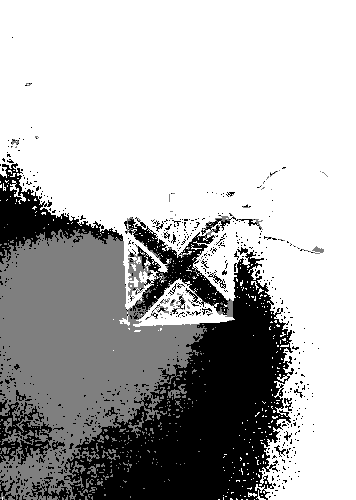
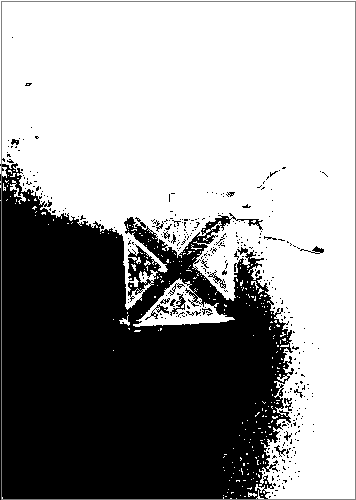
Add object pixel dimension finder.
Script now contains the method get_object_rectangle(), which returns the
coordinates and bounds of the upright rectangle bounding the largest
foreground segment (which algorithm assumes is the object -- this is
safer, in any case). The image outputs illustrate the calculated
rectangle.

diff --git a/cs473vision/ObjectDetector.py b/cs473vision/ObjectDetector.py
@@ -4,7 +4,9 @@ Created on Feb 28, 2014
 @author: Vance Zuo
 '''
 
+import numpy
 import cv2
+import os
 
 class ObjectDetector(object):
     '''
@@ -16,38 +18,71 @@ class ObjectDetector(object):
         '''
         self.bg_img = None
         self.fg_img = None
+        self.fg_mask = None
         return
         
     def load_image(self, bg_path, fg_path):
+        if not (os.path.isfile(bg_path) and os.path.isfile(fg_path)):
+            return False
         self.bg_img = cv2.imread(bg_path)
         self.fg_img = cv2.imread(fg_path)
         return True
         
-    def subtract_background(self):
-        # Take simple difference
-        self.naive_mask = cv2.absdiff(self.bg_img, self.fg_img)
-        self.naive_mask = cv2.cvtColor(self.naive_mask, cv2.COLOR_BGR2GRAY)
-        __, self.naive_mask = cv2.threshold(self.naive_mask, 0, 255, 
-                                           cv2.THRESH_BINARY + cv2.THRESH_OTSU)
-        
-        # MOG Subtraction
-        bg_subtractor = cv2.BackgroundSubtractorMOG()
-        __ = bg_subtractor.apply(self.bg_img)
-        self.MOG_mask = bg_subtractor.apply(self.fg_img)
-              
-        # MOG2 Subtraction
-        bg_subtractor = cv2.BackgroundSubtractorMOG2()
-        __ = bg_subtractor.apply(self.bg_img)
-        self.MOG2_mask = bg_subtractor.apply(self.fg_img)
-        return
+    def create_fg_mask(self, method="Simple"):
+        if (self.bg_img is None) or (self.fg_img is None):
+            return False
+        if method == "Simple":
+            self.fg_mask = cv2.absdiff(self.bg_img, self.fg_img)
+            self.fg_mask = cv2.cvtColor(self.fg_mask, cv2.COLOR_BGR2GRAY)
+            __, self.fg_mask = cv2.threshold(self.fg_mask, 0, 255,
+                                             cv2.THRESH_BINARY+cv2.THRESH_OTSU)
+        elif method == "MOG":
+            bg_subtractor = cv2.BackgroundSubtractorMOG()
+            bg_subtractor.apply(self.bg_img)
+            self.fg_mask = bg_subtractor.apply(self.fg_img)
+        elif method == "MOG2":
+            bg_subtractor = cv2.BackgroundSubtractorMOG2()
+            bg_subtractor.apply(self.bg_img)
+            self.fg_mask = bg_subtractor.apply(self.fg_img)
+            __, self.fg_mask = cv2.threshold(self.fg_mask, 128, 255, 
+                                         cv2.THRESH_BINARY)
+        else:
+            return False
+        return True
     
+    def get_object_rectangle(self):
+        if self.fg_mask is None:
+            return (0, 0)
+        fg_mask_copy = self.fg_mask.copy()
+        contours, __ = cv2.findContours(fg_mask_copy, cv2.RETR_TREE,
+                                        cv2.CHAIN_APPROX_SIMPLE)
+        areas = [cv2.contourArea(c) for c in contours]
+        return cv2.boundingRect(contours[numpy.argmax(areas)])
+    
+
 def main():
+    # Load image
     obj = ObjectDetector()
-    obj.load_image("example1/square.jpg", "example1/arm+square.jpg")
-    obj.subtract_background()  
-    cv2.imwrite("example1/naive.png", obj.naive_mask) 
-    cv2.imwrite("example1/MOG.png", obj.MOG_mask)
-    cv2.imwrite("example1/MOG2.png", obj.MOG2_mask)
+    obj.load_image("example1/square.jpg", "example1/arm+square.jpg")   
+    # Test simple difference mask
+    obj.create_fg_mask("Simple")  
+    x, y, width, height = obj.get_object_rectangle()
+    cv2.rectangle(obj.fg_mask, (x,y), (x+width,y+height), (128,128,128))
+    cv2.imwrite("example1/simple.png", obj.fg_mask) 
+    print "Simple difference rectangle:", obj.get_object_rectangle()
+    # Test MOG mask
+    obj.create_fg_mask("MOG")  
+    x, y, width, height = obj.get_object_rectangle()
+    cv2.rectangle(obj.fg_mask, (x,y), (x+width,y+height), (128,128,128))
+    cv2.imwrite("example1/MOG.png", obj.fg_mask)
+    print "MOG result rectangle:", obj.get_object_rectangle()
+    # Test MOG2 mask
+    obj.create_fg_mask("MOG2")  
+    x, y, width, height = obj.get_object_rectangle()
+    cv2.rectangle(obj.fg_mask, (x,y), (x+width,y+height), (128,128,128))
+    cv2.imwrite("example1/MOG2.png", obj.fg_mask)
+    print "MOG2 result rectangle:", obj.get_object_rectangle()
+    return
     
 if __name__ == "__main__":
     main() 
